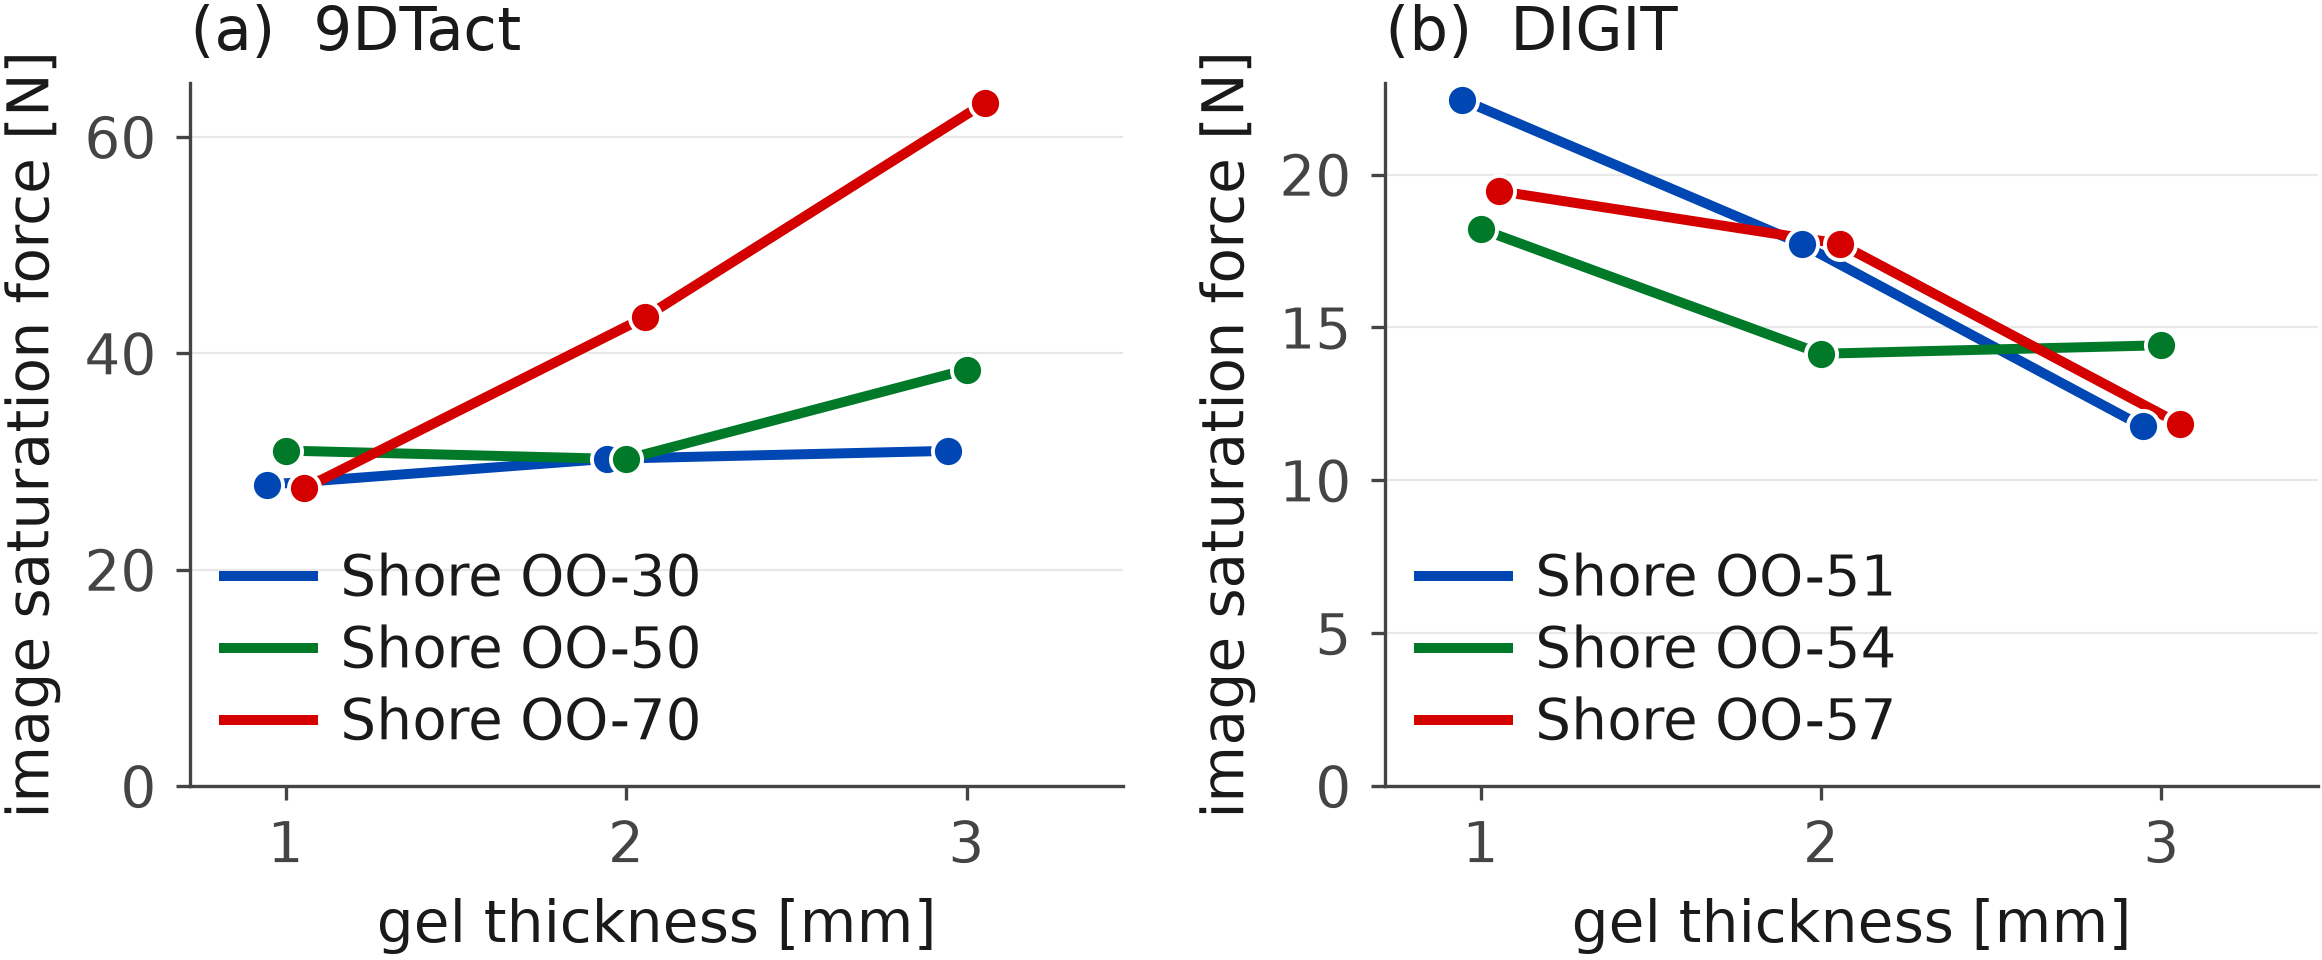
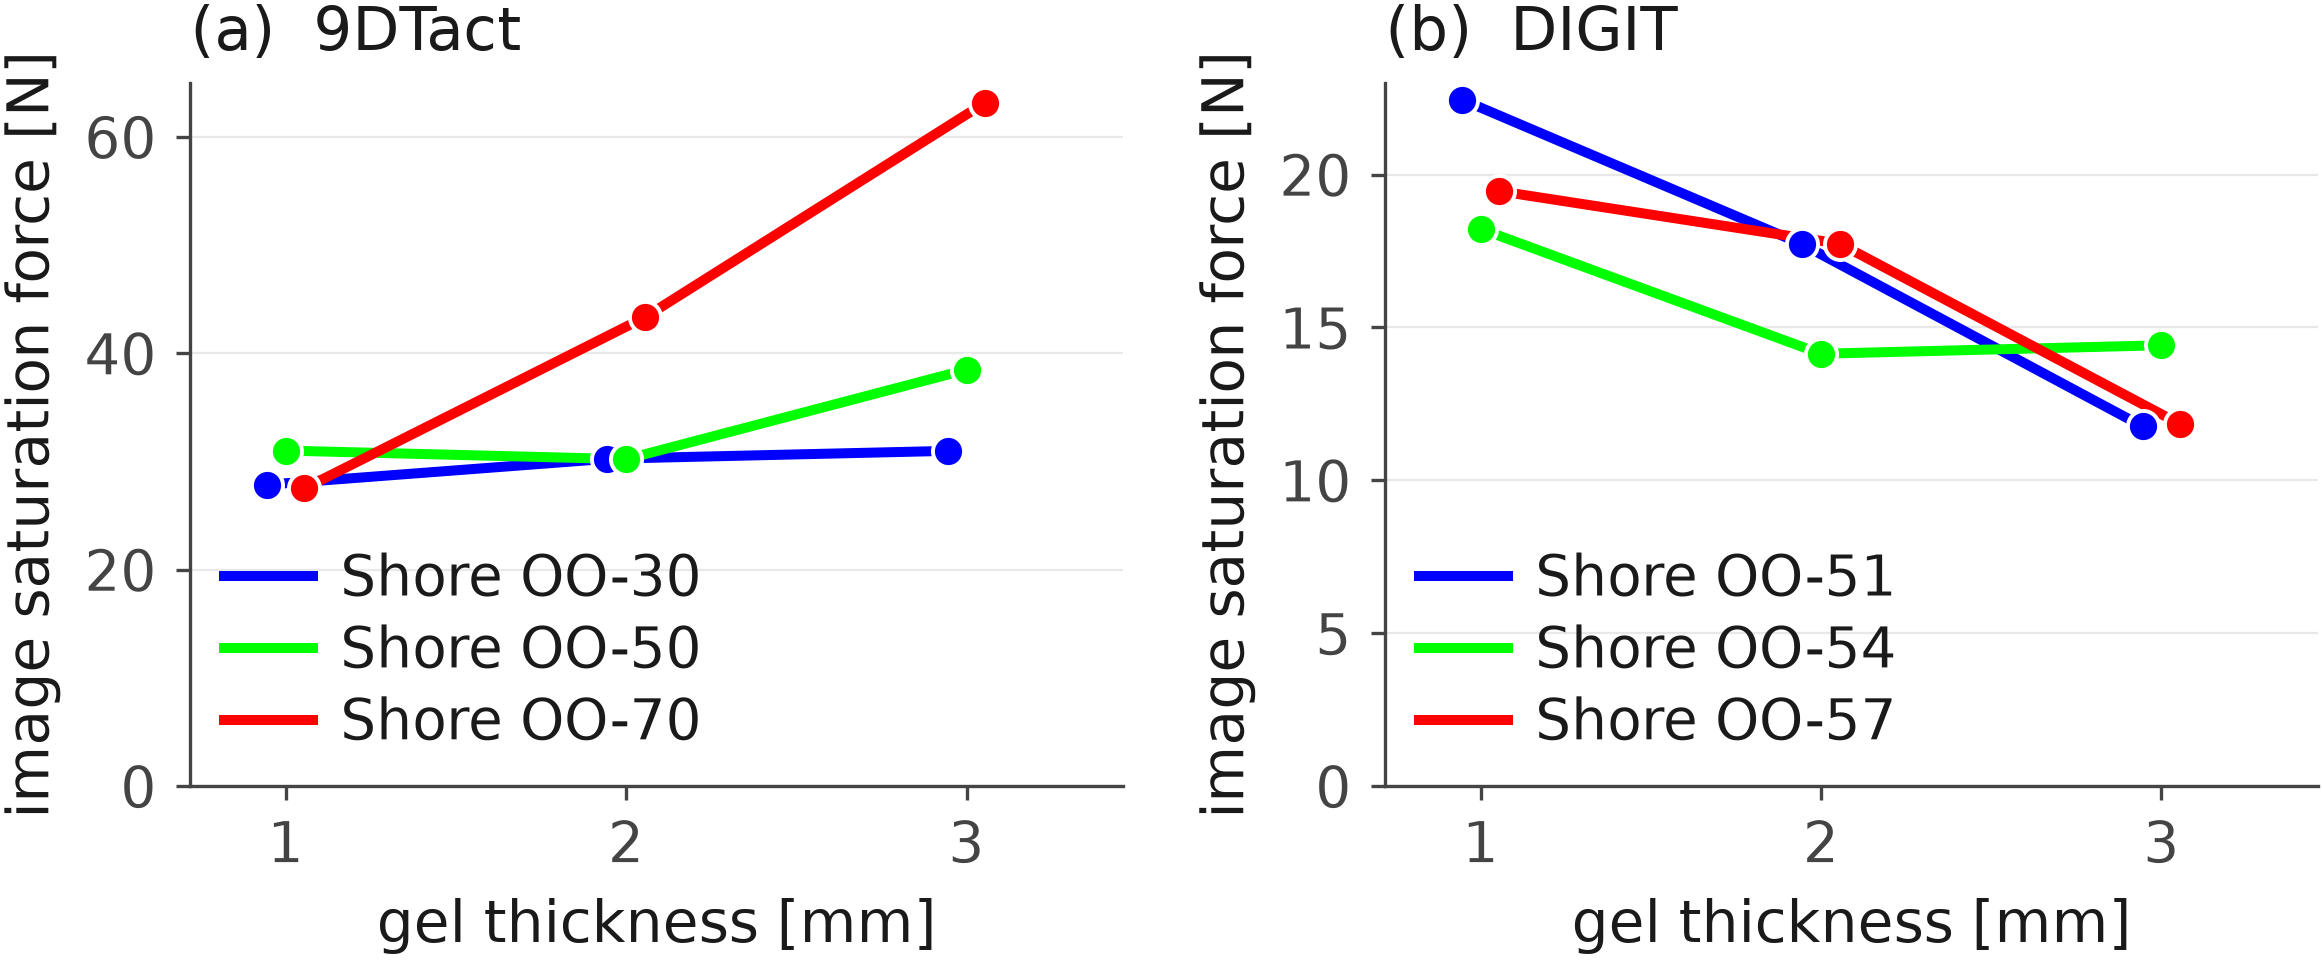
논문 그림 색을 순수 원색으로 (운전자 지정)
파랑 #0000FF, 초록 #00FF00, 빨강 #FF0000, 검정 #000000.

검증기로 재 두었다. 색각 이상 쪽은 오히려 좋아졌다 -- 빨강과 초록의 ΔE 가
7.4 에서 22.2 (deutan) 로 올랐고, 밝기 차가 커서 흑백 인쇄에서도 세 선이
갈린다. 표식 모양을 뺀 것이 덜 아프게 됐다.

대신 순수 초록의 바탕 대비가 1.34:1 이다(기준 3:1). 화면에서는 보이는데
종이에서는 가는 초록 선이 사라진다 -- 인쇄 교정에서 반드시 볼 것으로
CLAUDE.md 와 계획서에 적었다. 색을 바꾸지 않고 살리려면 선을 굵게 하거나
초록에만 흰 테두리를 두르면 된다.

Claude-Session: https://claude.ai/code/session_016iQhAWxVDAfi9YqRbr7KDo

diff --git a/paper/figure_plan.md b/paper/figure_plan.md
@@ -75,15 +75,16 @@
   글자가 함께 커진다. 두 패널짜리 기본값은 `FULL_W_NARROW = 6.10 in`.
 - 글자는 본문 기준 9 pt 로 그린다(2026-09-15 에 7.5 → 9 로 올렸다). 7.5 로 그렸더니
   두 단에 앉혔을 때 작았다.
-- **색은 논문 그림만의 것이다** (운전자 결정, 2026-09-15) — 투박한 파랑 · 초록 ·
-  빨강 · 검정 넷. `paper_style.py` 가 정하고, `result/` 의 Okabe-Ito 셋과 **갈린다**.
-  순서가 있는 변수는 무를수록 파랑 · 단단할수록 빨강.
-  > **색각 이상에서 빨강·초록이 가깝다** — 인접 쌍 최악 ΔE **7.4** (deutan).
-  > Okabe-Ito 셋은 11.0 이었다. 검증기가 "보조 표시가 있을 때만" 이라고 적는
-  > 6 ~ 8 구간인데, 표식 모양도 쓰지 않으므로(운전자 결정) 지금 보조 표시가 없다.
-  > 보통 시야 28.8, 바탕 대비 셋 다 3:1 이상은 통과한다.
-  > **되살리는 값싼 길 둘** — 선 끝 직접 라벨, 또는 선 모양(실선·파선·점선).
-  > 흑백 인쇄에서 세 선이 구분되지 않는 문제도 그 둘이 함께 푼다.
+- **색은 논문 그림만의 것이다** (운전자 결정, 2026-09-15) — 순수 원색 파랑
+  `#0000FF` · 초록 `#00FF00` · 빨강 `#FF0000` · 검정 `#000000`. `paper_style.py` 가
+  정하고 `result/` 의 Okabe-Ito 셋과 **갈린다**. 순서가 있는 변수는 무를수록 파랑 ·
+  단단할수록 빨강.
+  > **순수 초록이 흰 바탕에서 거의 안 보인다** — `#00FF00` 의 바탕 대비가
+  > **1.34 : 1** (검증기 기준 3 : 1, 밝기도 권장 띠 밖인 L 0.866). 화면에서는
+  > 보이는데 종이에 뽑으면 가는 초록 선이 사라진다. **인쇄 교정에서 반드시 볼 것.**
+  > 색을 바꾸지 않고 살리는 길 — 선을 굵게 하거나 초록에만 흰 테두리를 두른다.
+  > 색각 이상 쪽은 오히려 낫다 — 빨강↔초록 ΔE **22.2** (deutan), 보통 시야 52.0.
+  > 밝기 차가 커서 색을 못 보는 눈도 가르고, 흑백 인쇄에서도 세 선이 갈린다.
 - 글꼴은 Type 42 로 심는다. Type 3 은 IEEE PDF eXpress 가 되돌려 보낸다
   (`fig_ceiling.pdf` 확인: FontFile2 3 개, Type 3 0 개).
 - `save()` 가 **pdf · png · csv 셋을 함께** 낸다. csv 없이 그림을 저장하지 않는다.

diff --git a/CLAUDE.md b/CLAUDE.md
@@ -37,14 +37,16 @@
   선까지만 줄인다. 두 패널짜리 기본값은 `paper_style.FULL_W_NARROW`.
 - 글자 크기는 **인쇄에서 읽히는 것**이 기준이다. `paper_style` 한 곳에서 건다.
 - **논문 그림의 색은 `paper_style.py` 가 정한다** (운전자 결정, 2026-09-15).
-  투박한 파랑 `#0047B3` · 초록 `#007A29` · 빨강 `#D40000` · 검정 `#000000` 넷뿐이고,
+  순수 원색 파랑 `#0000FF` · 초록 `#00FF00` · 빨강 `#FF0000` · 검정 `#000000` 넷뿐이고,
   순서가 있는 변수는 무를수록 파랑 · 단단할수록 빨강으로 간다.
   `result/` 의 그림은 `src/scripts/palette.py` 의 Okabe-Ito 셋을 그대로 쓴다 —
   **두 곳이 갈린다.** 값을 옮겨 적지 말고 각자의 파일에서 가져올 것.
-  > 빨강과 초록이 색각 이상에서 가깝다(인접 쌍 최악 ΔE **7.4** deutan, Okabe-Ito
-  > 는 11.0). 검증기가 보조 표시를 요구하는 6 ~ 8 구간인데 표식 모양도 쓰지
-  > 않으므로(운전자 결정) 지금은 그 보조 표시가 없다. 되살리려면 선 끝 직접
-  > 라벨이나 선 모양(실선·파선·점선) 중 하나면 된다 — 흑백 인쇄에서도 그 둘이 답이다.
+  > **순수 초록이 흰 바탕에서 거의 안 보인다** — `#00FF00` 의 바탕 대비가
+  > **1.34 : 1** 로 검증기 기준 3 : 1 아래다. 화면에서는 보이지만 종이에 뽑으면
+  > 가는 초록 선이 사라진다. 색을 바꾸지 않고 살리려면 선을 굵게 하거나 초록에만
+  > 흰 테두리를 두르면 된다.
+  > 색각 이상 쪽은 오히려 낫다 — 빨강↔초록 ΔE **22.2** (deutan), 보통 시야 52.0.
+  > 밝기가 크게 달라 색을 못 보는 눈도 가른다.
 - 글꼴은 Type 42 로 심는다. Type 3 은 IEEE PDF eXpress 가 되돌려 보낸다.
 - **csv 없이 그림을 저장하지 않는다.** `paper_style.save()` 가 pdf·png·csv 를 함께 낸다.
 - `paper/figures/` 는 그 전에 만든 것이 들어 있는 곳이라 섞지 않는다.
